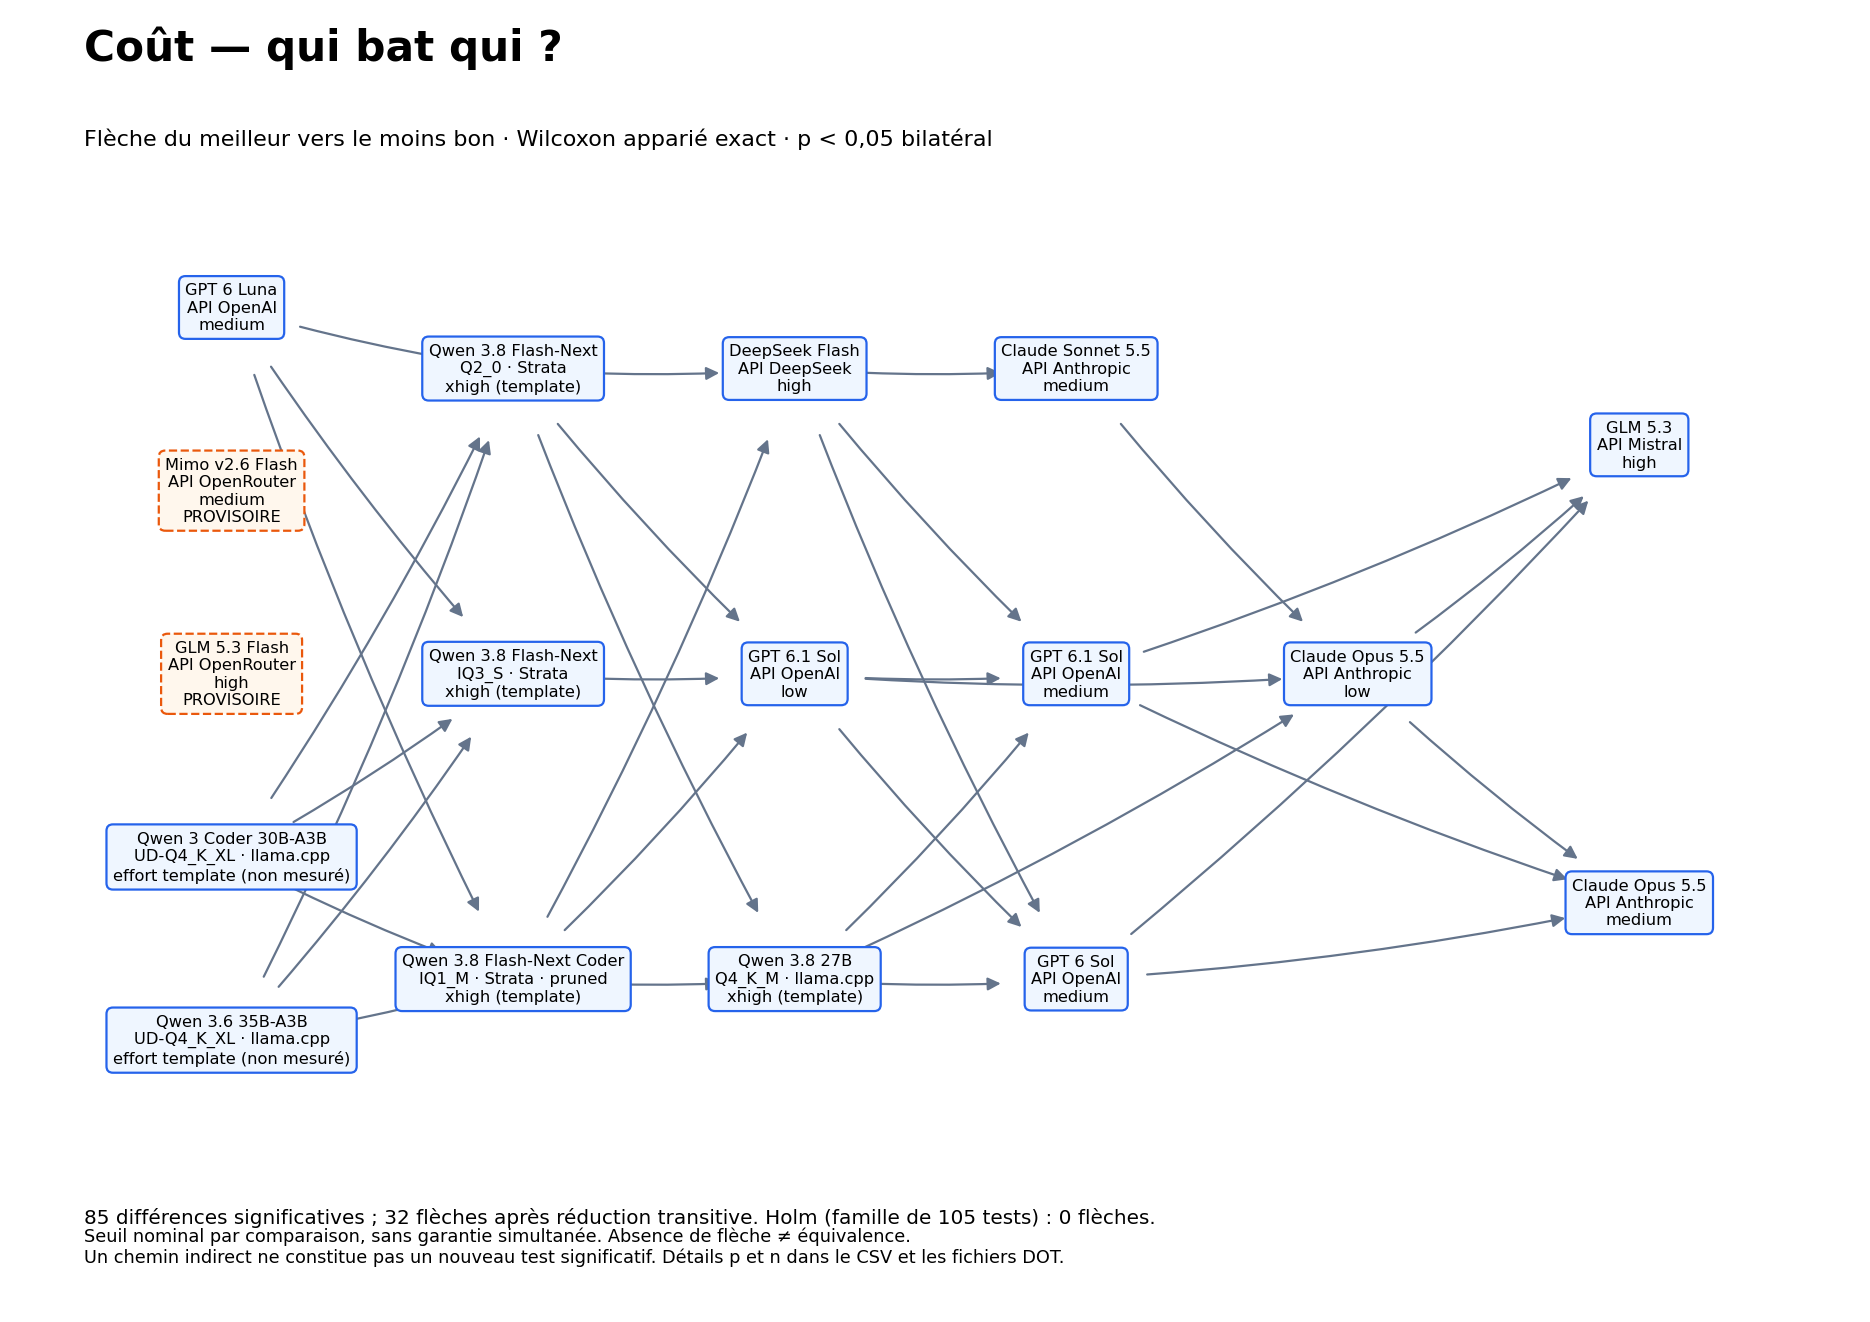
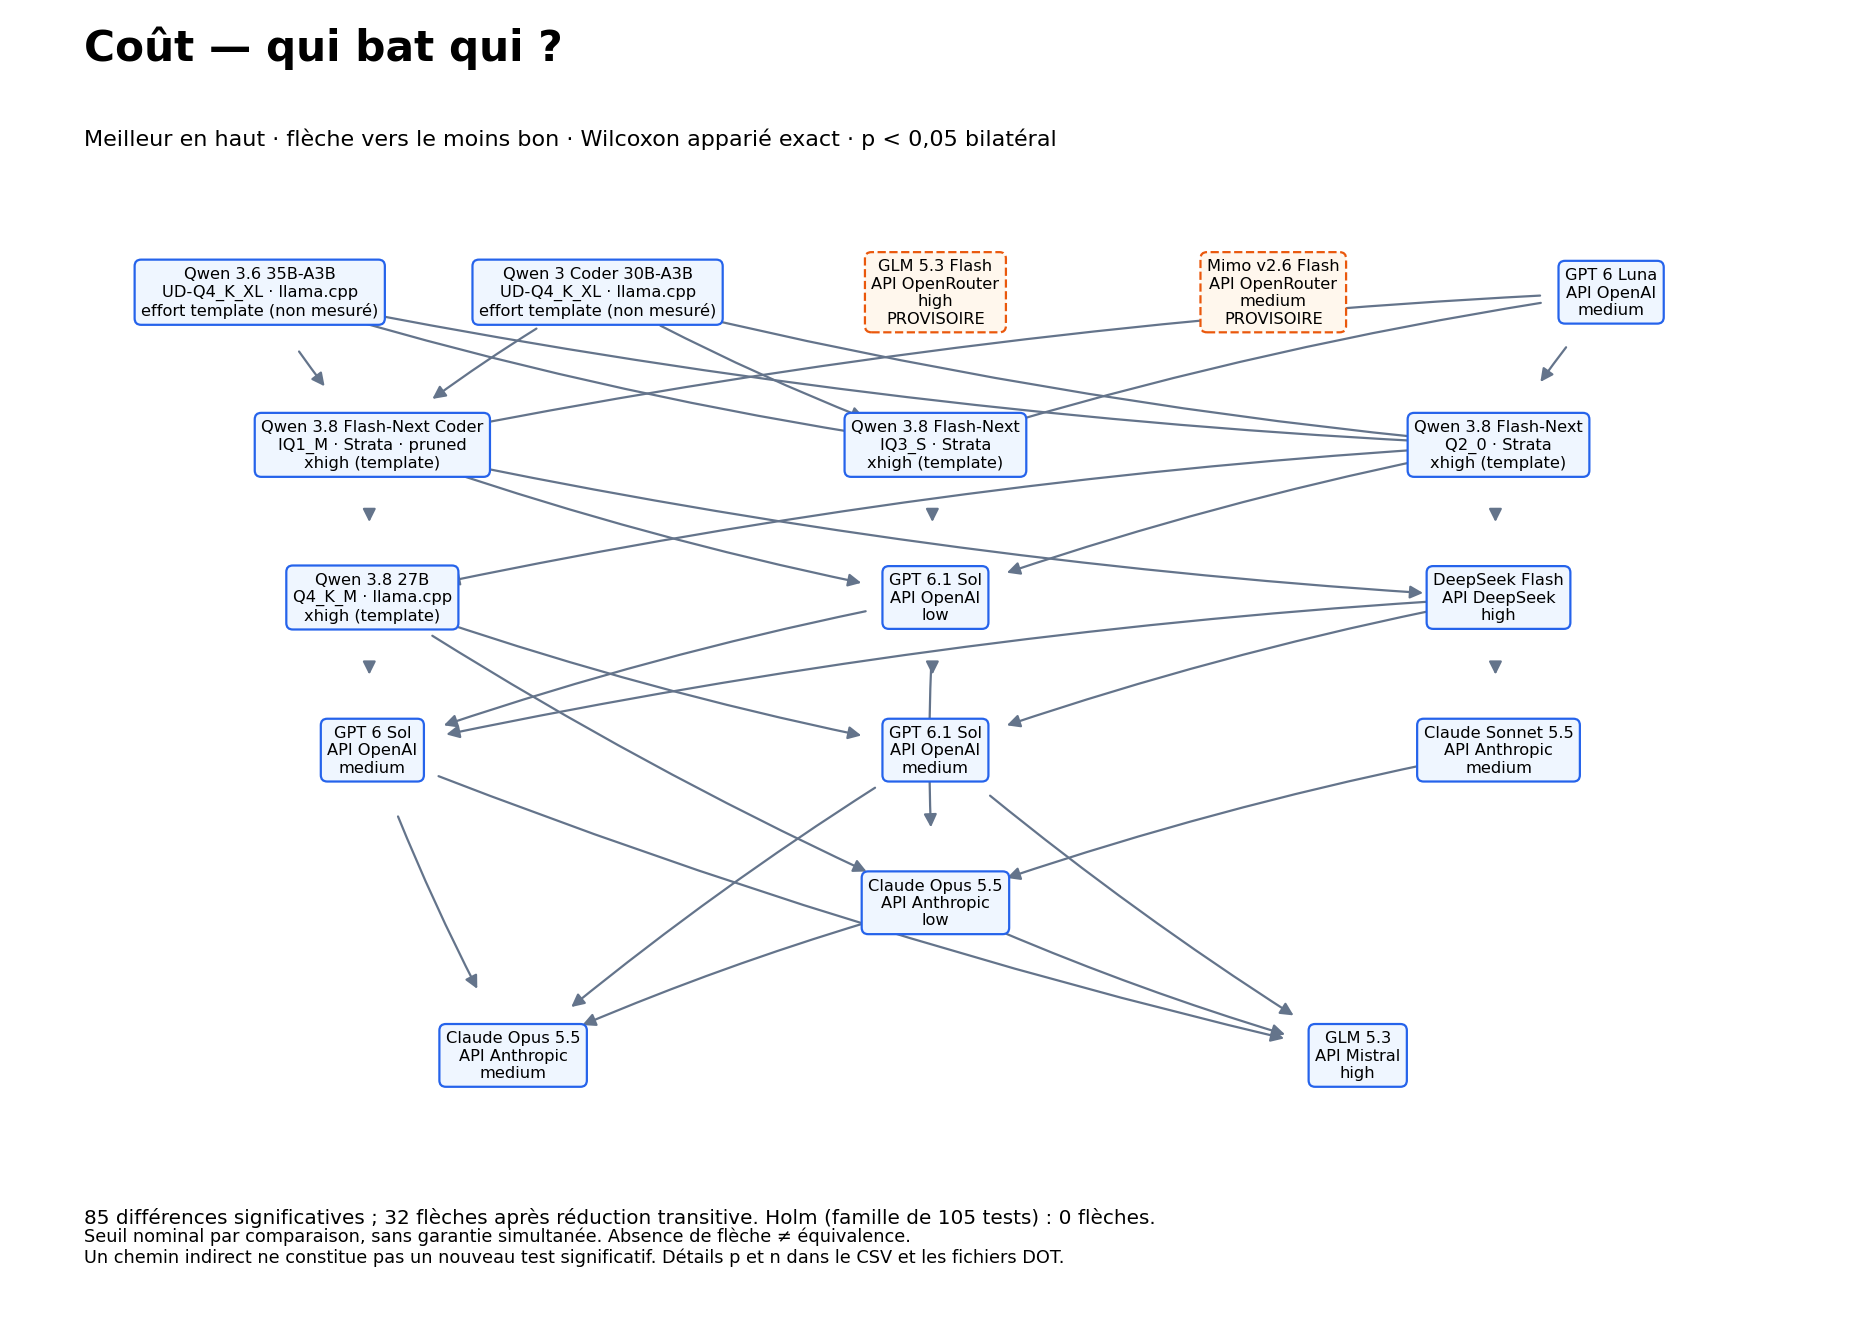
docs(tournament): orient comparison graphs from best to worst vertically

diff --git a/scripts/tournament-graphs.py b/scripts/tournament-graphs.py
@@ -124,7 +124,7 @@ def render(output, snapshot):
             r['shown'] = (r['winner'], r['loser']) in reduced and r['p'] < .05
         results[metric] = {'comparisons': rows, 'edges': sorted(edges), 'reduced': sorted(reduced),
                            'holm_edges': [(r['winner'], r['loser']) for r in rows if r['p_holm'] < .05]}
-        dot = ['digraph G {', 'rankdir=LR;', 'node [shape=box, fontname="DejaVu Sans"];']
+        dot = ['digraph G {', 'rankdir=TB;', 'node [shape=box, fontname="DejaVu Sans"];']
         for a in nodes:
             label = LABELS[a] + ('\nPROVISOIRE' if not snapshot['arms'][a]['final'] else '')
             dot.append(f'{a} [label={json.dumps(label, ensure_ascii=False)}];')
@@ -155,11 +155,11 @@ def render(output, snapshot):
             maxrank = max(layers)
             for rank, layer in layers.items():
                 for index, a in enumerate(layer):
-                    positions[a] = ((rank + .5)/(maxrank+1), (index+.5)/len(layer))
+                    positions[a] = ((index+.5)/len(layer), 1 - (rank + .5)/(maxrank+1))
             fig, ax = plt.subplots(figsize=(11.6929, 8.2677))
             fig.subplots_adjust(left=.035, right=.965, bottom=.13, top=.85)
             fig.suptitle(f'{title} — qui bat qui ?', fontsize=19, fontweight='bold', x=.045, ha='left')
-            fig.text(.045,.89,'Flèche du meilleur vers le moins bon · Wilcoxon apparié exact · p < 0,05 bilatéral',fontsize=10)
+            fig.text(.045,.89,'Meilleur en haut · flèche vers le moins bon · Wilcoxon apparié exact · p < 0,05 bilatéral',fontsize=10)
             for a, b in sorted(edges):
                 ax.add_patch(FancyArrowPatch(positions[a], positions[b], arrowstyle='-|>', mutation_scale=12,
                                             color='#64748b', linewidth=1, shrinkA=32, shrinkB=34,
